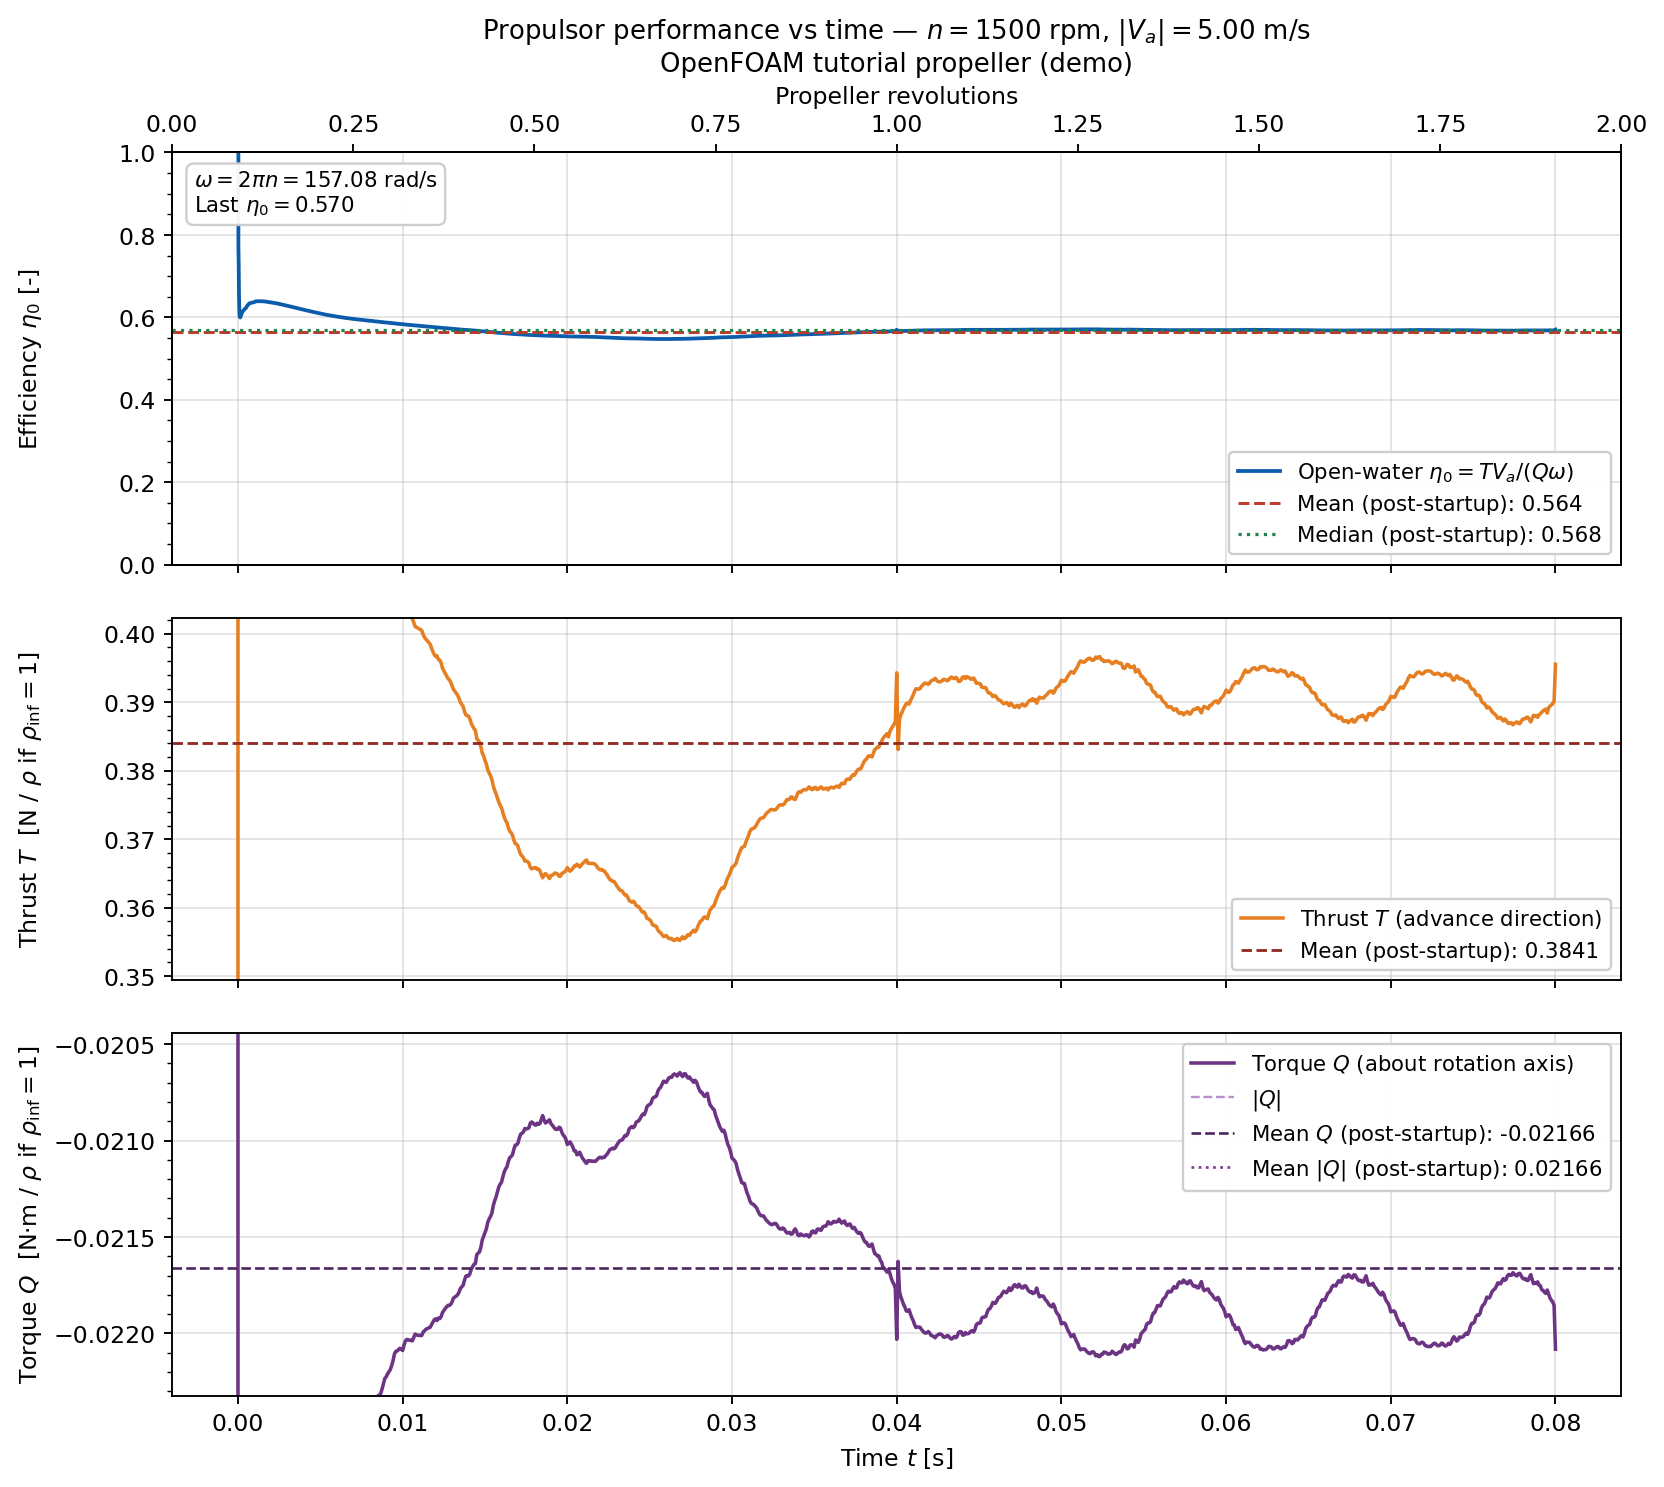
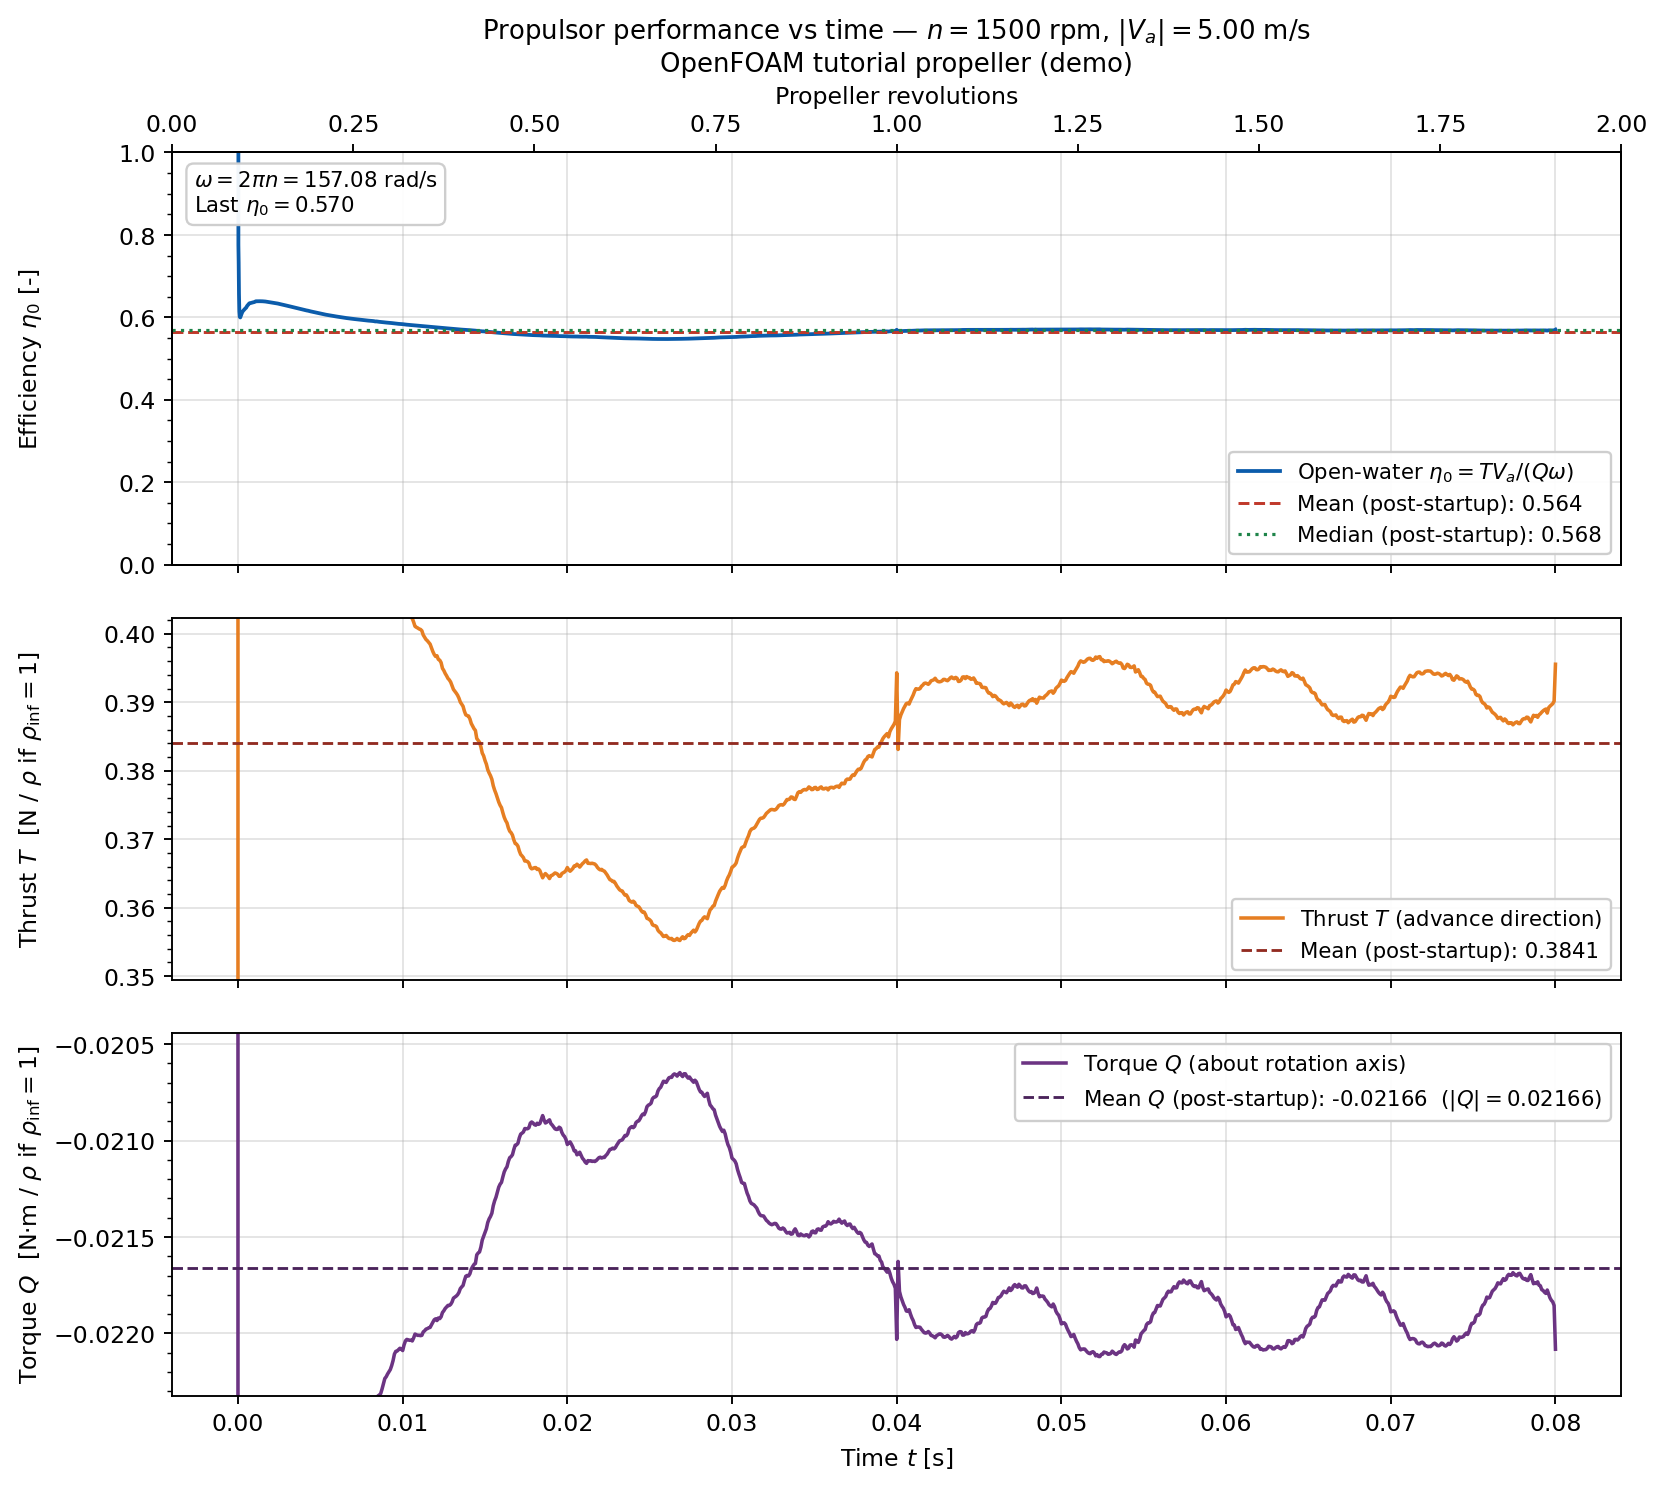
Fix torque panel scaling on performance vs time plot
Plot signed shaft torque only and report |Q| in the mean legend so the
curve stays on-scale when torque is negative.

Changed region(s): [[0.625, 0.7115, 0.9688, 0.8043]]

diff --git a/pipeline/lib/plot_forces.py b/pipeline/lib/plot_forces.py
@@ -195,29 +195,20 @@ def plot_performance(
     ax.grid(True, alpha=0.35)
     ax.yaxis.set_minor_locator(AutoMinorLocator())
 
-    # --- Torque vs time ---
+    # --- Torque vs time (signed about rotation axis) ---
     ax = axes[2]
     ax.plot(t, Q, color="#6c3483", lw=1.5, label=r"Torque $Q$ (about rotation axis)")
-    ax.plot(t, np.abs(Q), color="#af7ac5", lw=1.0, ls="--", alpha=0.85, label=r"$|Q|$")
     if np.isfinite(Q_mean):
-        ax.axhline(Q_mean, color="#4a235a", ls="--", lw=1.1, label=fr"Mean $Q$ (post-startup): {Q_mean:.4g}")
-    if np.isfinite(Q_abs_mean):
         ax.axhline(
-            Q_abs_mean,
-            color="#7d3c98",
-            ls=":",
-            lw=1.15,
-            label=fr"Mean $|Q|$ (post-startup): {Q_abs_mean:.4g}",
+            Q_mean,
+            color="#4a235a",
+            ls="--",
+            lw=1.2,
+            label=fr"Mean $Q$ (post-startup): {Q_mean:.4g}  ($|Q|={Q_abs_mean:.4g}$)",
         )
-    # Y-limits from post-startup signed torque (startup spikes excluded)
     yl = _ylim_from_ss(Q, mask)
     if yl:
-        if mask.any() and Q[mask].max() < 0:
-            ax.set_ylim(yl[0], min(0.0, yl[1]))
-        elif mask.any() and Q[mask].min() > 0:
-            ax.set_ylim(max(0.0, yl[0]), yl[1])
-        else:
-            ax.set_ylim(*yl)
+        ax.set_ylim(*yl)
     ax.set_ylabel(r"Torque $Q$  [N·m / $\rho$ if $\rho_\mathrm{inf}=1$]")
     ax.set_xlabel("Time $t$ [s]")
     ax.legend(loc="best", framealpha=0.95)
@@ -248,10 +239,15 @@ def plot_performance(
     add_rev_axis(ax)
 
     ax = axes2[1]
-    ax.plot(t, Q, color="#6c3483", lw=1.6, label="Torque $Q$")
-    ax.plot(t, np.abs(Q), color="#af7ac5", lw=1.0, ls="--", label="$|Q|$")
+    ax.plot(t, Q, color="#6c3483", lw=1.6, label="Torque $Q$ (rotation axis)")
     if np.isfinite(Q_mean):
-        ax.axhline(Q_mean, color="#4a235a", ls="--", lw=1.2, label=f"Mean $Q$: {Q_mean:.4g}")
+        ax.axhline(
+            Q_mean,
+            color="#4a235a",
+            ls="--",
+            lw=1.2,
+            label=f"Mean $Q$: {Q_mean:.4g}  ($|Q|={Q_abs_mean:.4g}$)",
+        )
     yl = _ylim_from_ss(Q, mask)
     if yl:
         ax.set_ylim(*yl)

diff --git a/docs/PIPELINE.md b/docs/PIPELINE.md
@@ -254,7 +254,8 @@ Logs to inspect: `log.blockMesh`, `log.snappyHexMesh`, `log.foamRun`, `log.creat
 | `pipeline/02_mesh.sh` | Parallel mesh + sliding interface |
 | `pipeline/03_run.sh` | Parallel transient solve + disk watchdog |
 | `pipeline/04_movie.sh` | pvpython frames → ffmpeg MP4 |
-| `pipeline/05_efficiency.sh` | \(\eta_0\) plot + CSV |
+| `pipeline/05_efficiency.sh` | \(\eta_0\), thrust, torque vs time + CSV |
+| `pipeline/lib/plot_forces.py` | Shared plotting library |
 | `pipeline/run_all.sh` | End-to-end driver |
 | `pipeline/lib/write_case.py` | Case generator |
 | `pipeline/lib/stl_utils.py` | STL bbox / scale / watertight check |